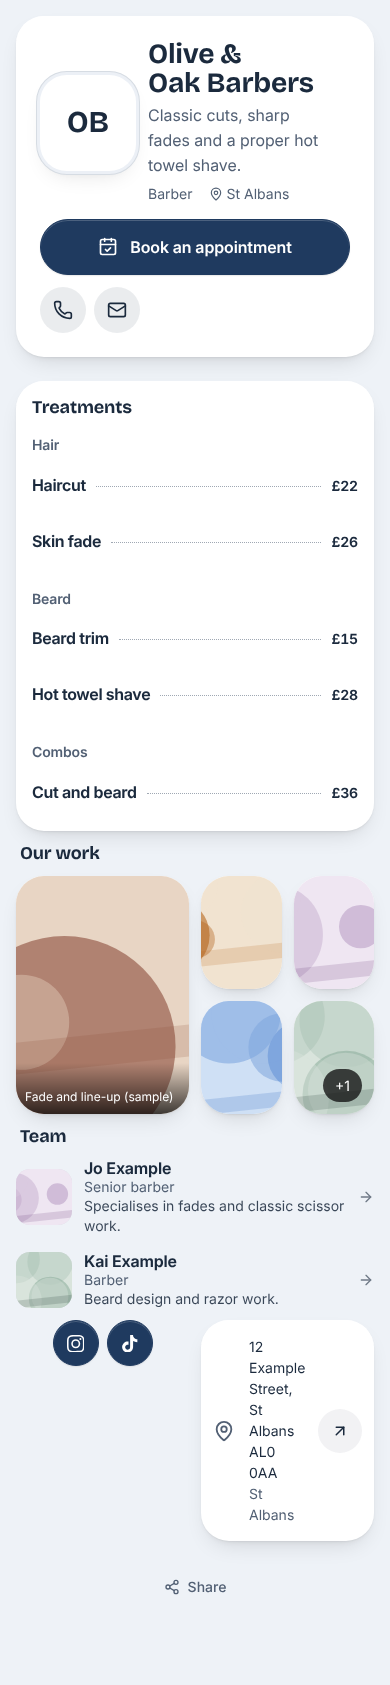
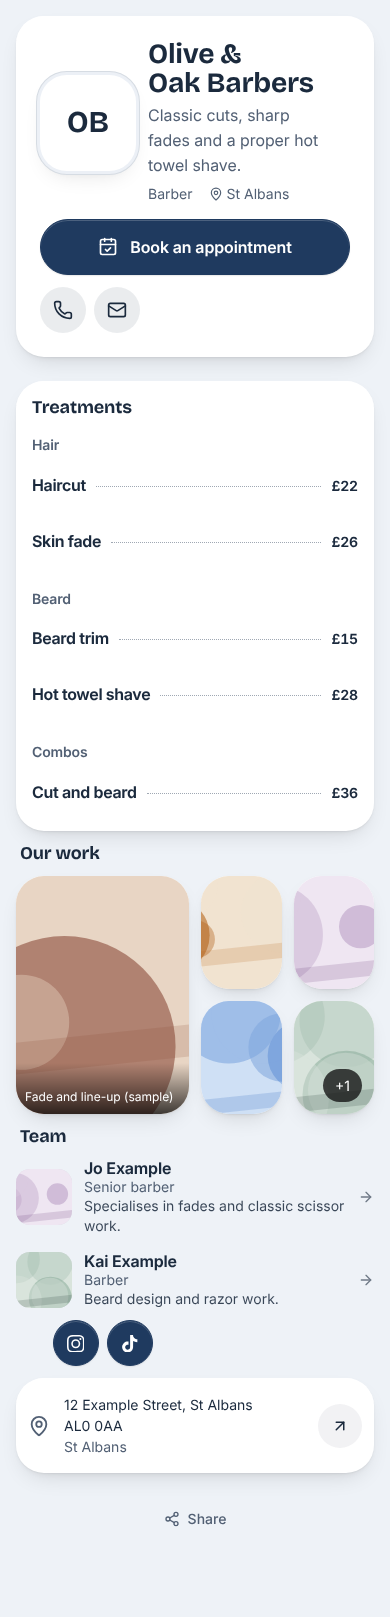
Look 4: location card takes the full row, socials centre; example biographies; evidence r5 refresh
Claude-Session: https://claude.ai/code/session_018ov2NmuVk2PFZbq6ZGLVtP

diff --git a/src/features/themes/fixtures/index.ts b/src/features/themes/fixtures/index.ts
@@ -158,8 +158,8 @@ const tutor: Omit<Fixture, "page"> = {
       svc("s4", "Free introductory call", "free", undefined, 15, "Meet, discuss goals, no obligation.", { delivery: ["online"], bookingMode: "request" }),
     ].map((s, i) => ({ ...s, sortOrder: i })),
     staff: [
-      { id: "t1", slug: "priya", name: "Priya Example", role: "Maths tutor", bio: "Sample biography for layout testing.", photo: img(7, SAMPLE), subjects: ["GCSE Maths", "A-level Maths"] },
-      { id: "t2", slug: "daniel", name: "Daniel Example", role: "Science tutor", bio: "Sample biography for layout testing.", photo: img(4, SAMPLE), subjects: ["Physics", "Chemistry"] },
+      { id: "t1", slug: "priya", name: "Priya Example", role: "Maths tutor", bio: "Example biography: replace it with your own.", photo: img(7, SAMPLE), subjects: ["GCSE Maths", "A-level Maths"] },
+      { id: "t2", slug: "daniel", name: "Daniel Example", role: "Science tutor", bio: "Example biography: replace it with your own.", photo: img(4, SAMPLE), subjects: ["Physics", "Chemistry"] },
     ],
     gallery: [],
     testimonials: [
@@ -192,7 +192,7 @@ const consultant: Omit<Fixture, "page"> = {
       svc("s2", "Advisory retainer", "quote", undefined, undefined, "Monthly access for decisions that cannot wait for a project.", { bookingMode: "request" }),
       svc("s3", "Leadership workshop", "fixed", 90000, 240, "A half-day session for the leadership team.", { bookingMode: "request" }),
     ].map((s, i) => ({ ...s, sortOrder: i })),
-    staff: [{ id: "t1", slug: "alex", name: "Alex Example", role: "Principal", bio: "Sample biography.", subjects: [] }],
+    staff: [{ id: "t1", slug: "alex", name: "Alex Example", role: "Principal", bio: "Example biography: replace it with your own.", subjects: [] }],
     gallery: [],
     testimonials: [{ id: "r1", quote: "A synthetic client comment included purely so the pull-quote treatment can be reviewed.", author: "Sample Director", source: "owner_supplied", permissionConfirmed: true }],
     reviewLinks: [],

diff --git a/src/features/page/renderer/page.css b/src/features/page/renderer/page.css
@@ -757,3 +757,7 @@ html[data-taplo-embedded="true"] [data-overlay][data-state="open"] { animation:p
 
 /* Initials sit on the avatar's own surface, so they take the page text colour whatever the header band is. */
 .tp-header .tp-avatar > span[aria-hidden="true"] { color: var(--tp-ink, var(--tp-foreground)) !important; }
+
+/* Text-heavy cards never share a row at phone width: an address needs the full measure. */
+[data-composition="bento"] .tp-widget[data-widget="location"][data-span="half"] { grid-column: 1 / -1; }
+[data-composition="bento"] .tp-widget[data-widget="social"][data-span="half"] { grid-column: 1 / -1; }
